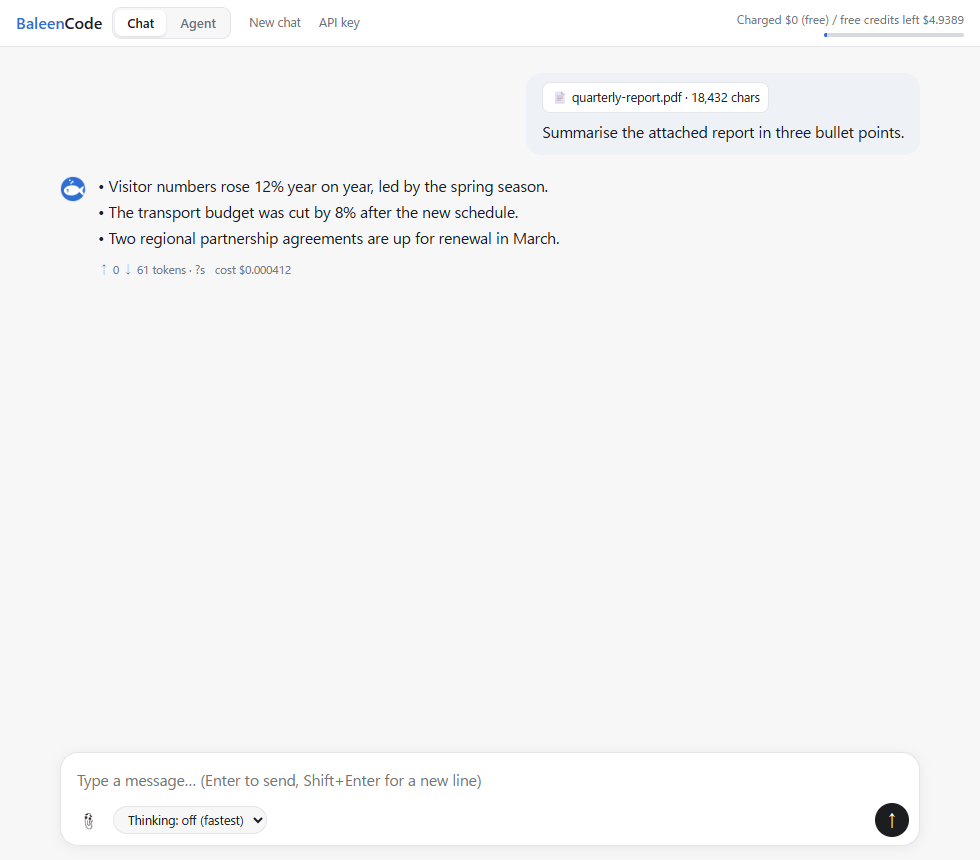
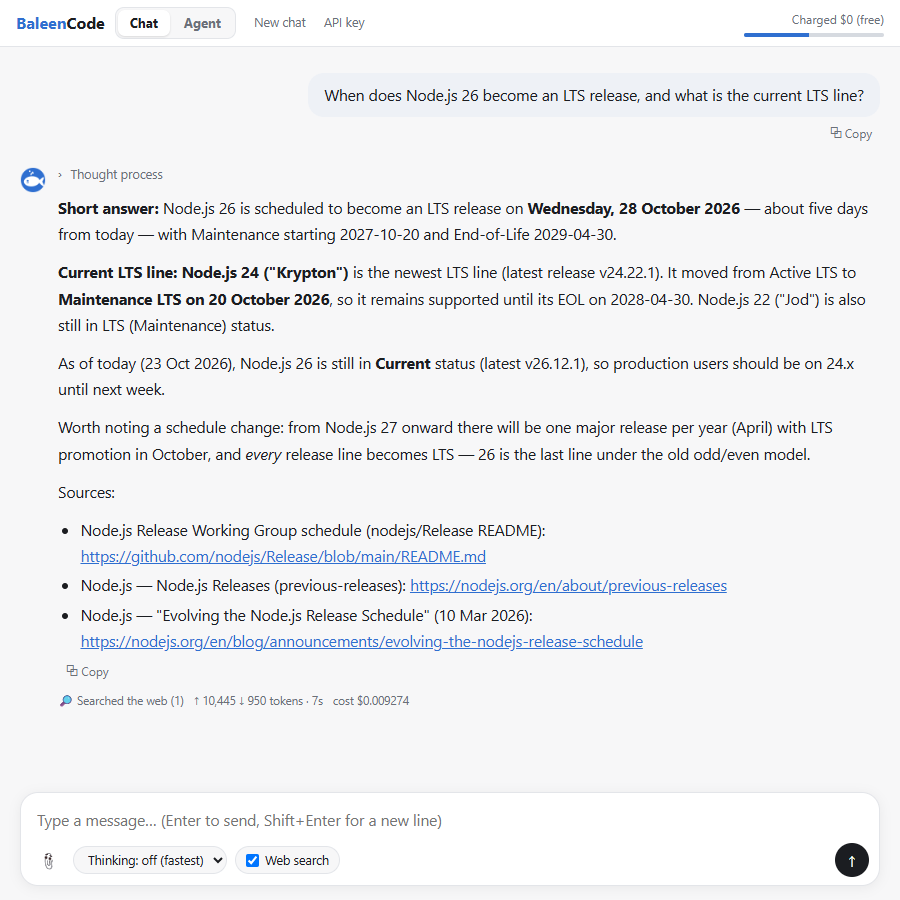
v1.4.2: fold away the thinking, live goal cost, new README demo
- The model's thinking folds away once the answer starts ("Thought process")
- The goal bar counts the running request's cost as it goes
- "New conversation" in the Agent header, matching the tabs
- Paths keep a backslash on Japanese Windows (Segoe UI first in the font stack)
- Agent requests accept the user's standing instructions (capped, added to the
  system prompt; approvals, folder limits and the allowlist stay enforced by code)
- README: new demo (a real /goal run with web search and page reading), real
  screenshots, updated feature list

diff --git a/public/index.html b/public/index.html
@@ -21,7 +21,7 @@
   *{box-sizing:border-box}
   [hidden]{display:none!important}   /* rows that set display:flex must still disappear when hidden */
   body{margin:0;background:var(--bg);color:var(--ink);
-    font:15.5px/1.7 system-ui,"Segoe UI","Yu Gothic UI","Hiragino Sans",sans-serif;
+    font:15.5px/1.7 "Segoe UI",system-ui,"Yu Gothic UI","Hiragino Sans",sans-serif;   /* Segoe UI first: Japanese UI fonts draw the backslash in paths as a yen sign */
     height:100vh;display:flex;flex-direction:column}
   /* ---- header ---- */
   header{display:flex;align-items:center;gap:10px;padding:7px 16px;border-bottom:1px solid var(--line);background:var(--panel)}
@@ -45,7 +45,12 @@
   .avatar{flex:none;width:26px;height:26px;border-radius:7px;overflow:hidden;margin-top:3px}
   .avatar img{width:100%;height:100%;display:block}
   .bubble{flex:1;min-width:0}
-  .bubble .think{color:var(--muted);font-size:13.5px;border-left:2px solid var(--line);padding-left:10px;margin-bottom:10px;white-space:pre-wrap}
+  .bubble .think{color:var(--muted);font-size:13.5px;margin-bottom:10px}
+  .bubble .think summary{cursor:pointer;font-size:12.5px;list-style:none;width:max-content}
+  .bubble .think summary::-webkit-details-marker{display:none}
+  .bubble .think summary::before{content:'›';display:inline-block;width:1em;transition:transform .15s}
+  .bubble .think[open] summary::before{transform:rotate(90deg)}
+  .bubble .think > div{border-left:2px solid var(--line);padding-left:10px;margin-top:6px;white-space:pre-wrap}
   .md p{margin:0 0 .75em} .md > :last-child{margin-bottom:0}
   .md h3,.md h4,.md h5,.md h6{margin:1.1em 0 .45em;line-height:1.35} .md > :first-child{margin-top:0}
   .md h3{font-size:1.2em} .md h4{font-size:1.08em} .md h5,.md h6{font-size:1em}
@@ -211,7 +216,7 @@
   </h1>
   <div class="hdr-actions">
     <button class="link" id="newChat" title="Start a new conversation">New chat</button>
-    <button class="link" id="agNew" hidden>New session</button>
+    <button class="link" id="agNew" hidden>New conversation</button>
     <button class="link" id="keyBtn" title="Set your API key">API key</button>
     <button class="link" id="langBtn" hidden></button>
   </div>
@@ -762,7 +767,8 @@ function renderItem(item, idx){
   } else {
     const b = document.createElement('div');
     b.className = 'msg bot';
-    const think = item.thinking ? `<div class="think">${esc(item.thinking)}</div>` : '';
+    // The model's thinking folds away once the answer is there (it can be opened again)
+    const think = item.thinking ? `<details class="think"${item.done ? '' : ' open'}><summary>${esc(t('Thought process'))}</summary><div>${esc(item.thinking)}</div></details>` : '';
     const body = item.error
       ? `<div class="error">${esc(item.error)}</div>`
       : `${think}<div class="text md">${MD.render(item.content)}</div>`
@@ -862,11 +868,16 @@ async function send(){
   const res = await api.chat({
     // With web search, a little thinking made answers about "the latest ..." pick the newest result (tested; about the same cost)
     messages, effort: chatWeb && $('effort').value === 'none' ? 'low' : $('effort').value, webSearch: chatWeb, signal: controller.signal,
-    onChunk: (t) => { botItem.content += t; drawText(); },
+    onChunk: (t) => { botItem.content += t; if (thinkEl) thinkEl.open = false; drawText(); },
     onThink: (t) => {
       botItem.thinking += t;
-      if (!thinkEl) { thinkEl = document.createElement('div'); thinkEl.className = 'think'; bubble()?.prepend(thinkEl); }
-      thinkEl.textContent = botItem.thinking;
+      if (!thinkEl) {
+        thinkEl = document.createElement('details'); thinkEl.className = 'think'; thinkEl.open = true;
+        const s = document.createElement('summary'); s.textContent = window.t ? window.t('Thought process') : 'Thought process';
+        thinkEl.append(s, document.createElement('div'));
+        bubble()?.prepend(thinkEl);
+      }
+      thinkEl.lastChild.textContent = botItem.thinking;
       scroller.scrollTop = scroller.scrollHeight;
     },
   }).catch(e => ({ ok: false, error: e?.name === 'AbortError' ? 'Stopped.' : String(e?.message ?? e) }));
@@ -1330,6 +1341,8 @@ function agOnEvent(ev, approve){
     case 'usage':
       agLive.calling = false; agLive.inTok += Number(ev.inTok) || 0; agLive.outTok += Number(ev.outTok) || 0;
       agLive.spent = Number(ev.spent) || 0; agLiveDraw();
+      // The goal bar counts the running request too (its total is saved when the request ends)
+      if (agRunInfo?.goal && agGoal) $('agGoalCost').textContent = '$' + ((agGoal.spent || 0) + agLive.spent).toFixed(4);
       if (ev.provider && !allowedSlugs().includes(ev.provider)) agEl('note bad', `Served by "${ev.provider}", which is not on the approved list.`);
       break;
     case 'done':

diff --git a/public/agent-android.js b/public/agent-android.js
@@ -604,7 +604,8 @@ Say which sources (titles or addresses) your answer is based on and how recent t
   /** DeepSeek sometimes writes a tool call as text after a gateway search instead of calling the tool */
   const TOOL_MARKUP = /<｜DSML｜|<\|DSML\|/;
 
-  const SYSTEM = (c) => SYSTEM_BASE(c) + (c.plan ? PLAN_RULES : '') + (c.goal ? GOAL_RULES(c.goal) : '') + (c.webSearch ? SEARCH_RULES : NO_SEARCH_RULES);
+  const SYSTEM = (c) => SYSTEM_BASE(c) + (c.plan ? PLAN_RULES : '') + (c.goal ? GOAL_RULES(c.goal) : '') + (c.webSearch ? SEARCH_RULES : NO_SEARCH_RULES)
+    + (c.instructions ? `\n\nSTANDING INSTRUCTIONS FROM THE USER (for this whole conversation):\n${c.instructions}` : '');
 
   // Approval levels, as on Windows: ask (every change asks) / edits (file edits go ahead) / auto (all go ahead
   // except the always-ask list: secrets, purchase / delete / send buttons, password fields)
@@ -666,6 +667,8 @@ Say which sources (titles or addresses) your answer is based on and how recent t
     const level = mode === 'read' ? 'ask' : LEVELS.includes(body.approval) ? body.approval : body.autoApprove === true ? 'auto' : 'edits';
     const c = { mode, level, plan, goal, root: body.root, rootName: body.rootName || 'the chosen folder', apps, app: apps[0]?.pkg, appName: apps[0]?.name,
       style: BSTYLE[mode], webSearch: body.webSearch === true,
+      // The user's standing instructions (optional; they shape answers only, the limits are enforced by code)
+      instructions: typeof body.instructions === 'string' ? body.instructions.trim().slice(0, 4000) : '',
       // Thinking effort chosen by the user; "auto": none, or low with web search (picked the newest results more reliably)
       effort: ['none', 'low', 'high', 'max'].includes(body.effort) ? body.effort : body.webSearch === true ? 'low' : 'none' };
     let history = (Array.isArray(body.history) ? body.history : []).filter(m => m && ['user', 'assistant', 'tool'].includes(m.role));

diff --git a/README.md b/README.md
@@ -5,7 +5,8 @@
 > Unofficial, community-made app. Not affiliated with DeepSeek, Alibaba or Vercel; it only uses DeepSeek's open-weights model through Vercel AI Gateway.
 
 **An agent for DeepSeek models that never sends your data to China.** Like Claude Code or Codex, it reads and edits your files,
-drives a browser and operates apps — and with `/goal` it keeps working on its own for hours — on Windows and Android.
+searches the web and reads pages, drives a browser and operates apps — and with `/goal` it keeps working on its own for
+hours — on Windows and Android.
 
 *Why the name:* baleen whales filter the sea through their baleen plates and keep only what they want. BaleenCode does the same
 with AI providers: only the ones on its allowlist ever see your data.
@@ -22,9 +23,11 @@ ever comes from a company outside that list.
 | Billing | Your own Vercel AI Gateway key — free while within your free credits |
 
 
-![A /goal run: the agent reads two notes, writes summary.md and checks it](docs/img/demo.gif)
+![A /goal run with web search: the agent checks php.net, writes update-plan.md for the servers in servers.md and checks it](docs/img/demo.gif)
 
-*A real `/goal` run (16 s, $0.004): it searches the folder, writes `summary.md`, re-reads it and checks it against the notes.*
+*A real `/goal` run with web search on (64 s, $0.07, sped up only where the screen did not change): asked which servers in
+`servers.md` need the latest PHP security release, the agent searched the web, read the advisory pages on php.net, wrote
+`update-plan.md`, then re-read it and checked every version against the notes and two php.net pages before finishing.*
 
 ## Download
 
@@ -43,9 +46,12 @@ check with `apksigner verify --print-certs`). Prefer to build it yourself? See *
 
 | Chat | Agent |
 |---|---|
-| ![Chat with an attached PDF](docs/img/chat.png) | ![A finished /goal run at the Autonomous approval level](docs/img/agent.png) |
+| ![Chat with web search: a dated answer with its sources](docs/img/chat.png) | ![The end of the /goal run above, with the verdict for each server](docs/img/agent.png) |
 
-*Sample content only. Right: a `/goal` run at the Autonomous level — the agent searched, read, wrote, re-read its result and stopped on its own. The line under the input shows the elapsed time, step and tokens used; it updates every second while the model works.*
+*Real runs, unedited apart from hiding the account's billing. Left: a question with web search on — the answer comes with
+its sources and the date it is valid for; the model's thinking is folded away (click to open). Right: the end of the `/goal`
+run above. The line under the input shows the elapsed time, step, tokens and cost so far, updated every second; the tabs
+above the conversation keep several conversations apart.*
 
 ## How it works
 
@@ -116,12 +122,16 @@ provider's own documentation if you need a specific region.
 
 ## Features
 
-- Streaming replies, multi-turn conversation, optional "thinking" mode (off / low / high)
+- Streaming replies, multi-turn conversation, an adjustable "thinking" level (Chat and Agent); the model's thinking folds away
+  once the answer arrives
+- **Web search** (Chat and Agent, off until you turn it on): answers cite their sources; with it on, the agent can also read
+  whole pages, and Chat reads pages whose addresses you paste
+- **Several conversations** in the Agent tab, as tabs you can rename and delete
 - Attach a file and ask about it: text, PDF, Word (`.docx`) and images
 - Image and scanned-PDF text recognition runs **on your device**; images are never uploaded
 - **Agent mode**: let the model read, search and edit files in a folder you choose (or, on Windows, the whole PC), drive its own browser window, or operate desktop / phone apps you pick — see below
 - **Three approval levels** (ask every time / auto-accept edits / autonomous) and **`/goal`**: the agent keeps working toward a goal for hours, checks its own result, and stops only for risky actions
-- Shows the real cost of every reply and your remaining free credits
+- Shows the real cost of every reply, the tokens and cost of a running request as it goes, and your remaining free credits
 - Stops before you are charged when the free credits or your Vercel budget run out
 
 ## Before you start: get your own API key
@@ -372,7 +382,7 @@ npm install
 npm test
 ```
 
-37 tests run the real agent loop with a scripted model (no network, no key, no cost) and check what must hold even if the AI
+38 tests run the real agent loop with a scripted model (no network, no key, no cost) and check what must hold even if the AI
 is fooled: folder escapes (`..`, absolute paths, junctions), per-mode tool sets, the three approval levels, the ask-first list
 (secrets, permanent deletes, `git push`, data upload commands) even at the Autonomous level, plan mode changing nothing, goal mode
 (continuing, checking, skipping unanswered approvals, compacting with the same allowlist), web search being off unless turned on and never in summaries, the per-request search setting and search limit, the page reader refusing private addresses (including tricks such as `http://2130706433/` or `localhost.`) and staying fast on hostile pages, the provider allowlist, the "reply from a provider outside the list" stop, and parser limits (a 200 MB

diff --git a/docs/TESTING.md b/docs/TESTING.md
@@ -36,6 +36,7 @@ deterministic. They check the part that must hold *even if the AI is fooled*: li
 | After 12 searches in a request the search tool is removed and the model is told so; page reading still works | A request cannot run up search costs |
 | A tool call written as text is not shown as the answer; the model is asked again | Search replies do not end in raw markup |
 | The thinking setting follows the user's choice | Effort is what the user picked |
+| Standing instructions reach the system prompt (capped at 4,000 characters) and a secret file still asks first | Instructions cannot loosen what code enforces |
 | Address checks: loopback, private, link-local, CGNAT, multicast, IPv4-mapped IPv6, `2130706433`, `0x7f.1`, `localhost.`, `.local`, `.home.arpa` | Tricks that point at this machine are refused before connecting |
 | HTML to text keeps headings, lists, tables; drops scripts, styles, menus; decodes entities; keeps only `<main>` when present | Pages read cleanly |
 | Eight hostile pages (thousands of unclosed tags, 1.5 M "<" characters …) are converted in under 3 s in total | A page cannot stall the app (the old converter took 20 s for 450 KB) |
@@ -74,6 +75,7 @@ Expected: the log contains one `submit` event with those values, **no** `DELETE_
 | Oct 22 | Android: Settings → Internet page, which Android hides from accessibility services | The app could not see the page and refused to tap (by design) |
 | Oct 22 | Android browser panel, text style: web search for the official Kotlin website on DuckDuckGo | Correct (kotlinlang.org, ads skipped); 5 s, about $0.002 |
 | Oct 22 | Android browser panel, screenshot style: fill and submit httpbin.org's test form | Result page matched (name, size, topping); about $0.004; slow because of the provider's rate limit |
+| Oct 23 | README demo: `/goal` "check php.net for the latest PHP security release and write update-plan.md for the servers in servers.md, then check it", Windows, web search on, English build | Correct verdict for all three servers (two updates, one already patched), sources cited, file re-checked; 64 s, $0.070 |
 | Oct 23 | Agent with web search on, in a conversation that already held three "I have no search tool" replies (the user's report), Android loop with the native request rules | Before: answered from the old replies without searching (on the phone). After: searched at once, read six php.net / GitHub pages, wrote the report once — $0.054, 46 s (before the step-memory rule: 6 rewrites, stopped at the $0.30 limit after 400 s) |
 | Oct 23 | Same on Windows through the app server (Node.js LTS question) | 1 search, 3 pages read (nodejs.org), file written once; $0.015 |
 | Oct 23 | Installed 1.4.0 over 1.3.0 on a Nothing Phone (3a), Android 15 | Old conversation kept as the first tab; agent searched (1) and read php.net natively; live status showed tokens and $0.0139 |

diff --git a/CHANGELOG.md b/CHANGELOG.md
@@ -2,6 +2,22 @@
 
 All notable changes are listed here. The format follows [Keep a Changelog](https://keepachangelog.com/), and the project uses [Semantic Versioning](https://semver.org/).
 
+## [1.4.2] - 2026-10-23
+
+### Changed
+- The model's thinking now folds away once the answer starts (click "Thought process" to open it), so answers and their
+  sources are visible at once.
+- The goal bar shows the cost of the running request as it goes (it showed $0.0000 until the request ended).
+- The Agent tab's header button is called "New conversation", like the tabs.
+- Paths show a backslash on Japanese Windows too (the interface font now prefers Segoe UI, whose backslash is not drawn as a
+  yen sign).
+- README: a new demo recorded with the current version (a `/goal` run with web search and page reading), real screenshots,
+  and an updated feature list.
+
+### Added
+- Agent requests can carry the user's standing instructions (`instructions`, at most 4,000 characters), added to the system
+  prompt. They shape the answers only: approvals, folder limits and the provider allowlist stay enforced by code (tested).
+
 ## [1.4.1] - 2026-10-23
 
 ### Fixed

diff --git a/CONTRIBUTING.md b/CONTRIBUTING.md
@@ -6,7 +6,7 @@ Thanks for looking. This is a small project maintained in spare time, so replies
 
 ```bash
 npm install
-npm test        # 37 tests; no network, no API key, no cost
+npm test        # 38 tests; no network, no API key, no cost
 npm start       # http://localhost:4141 (Windows)
 ```
 
